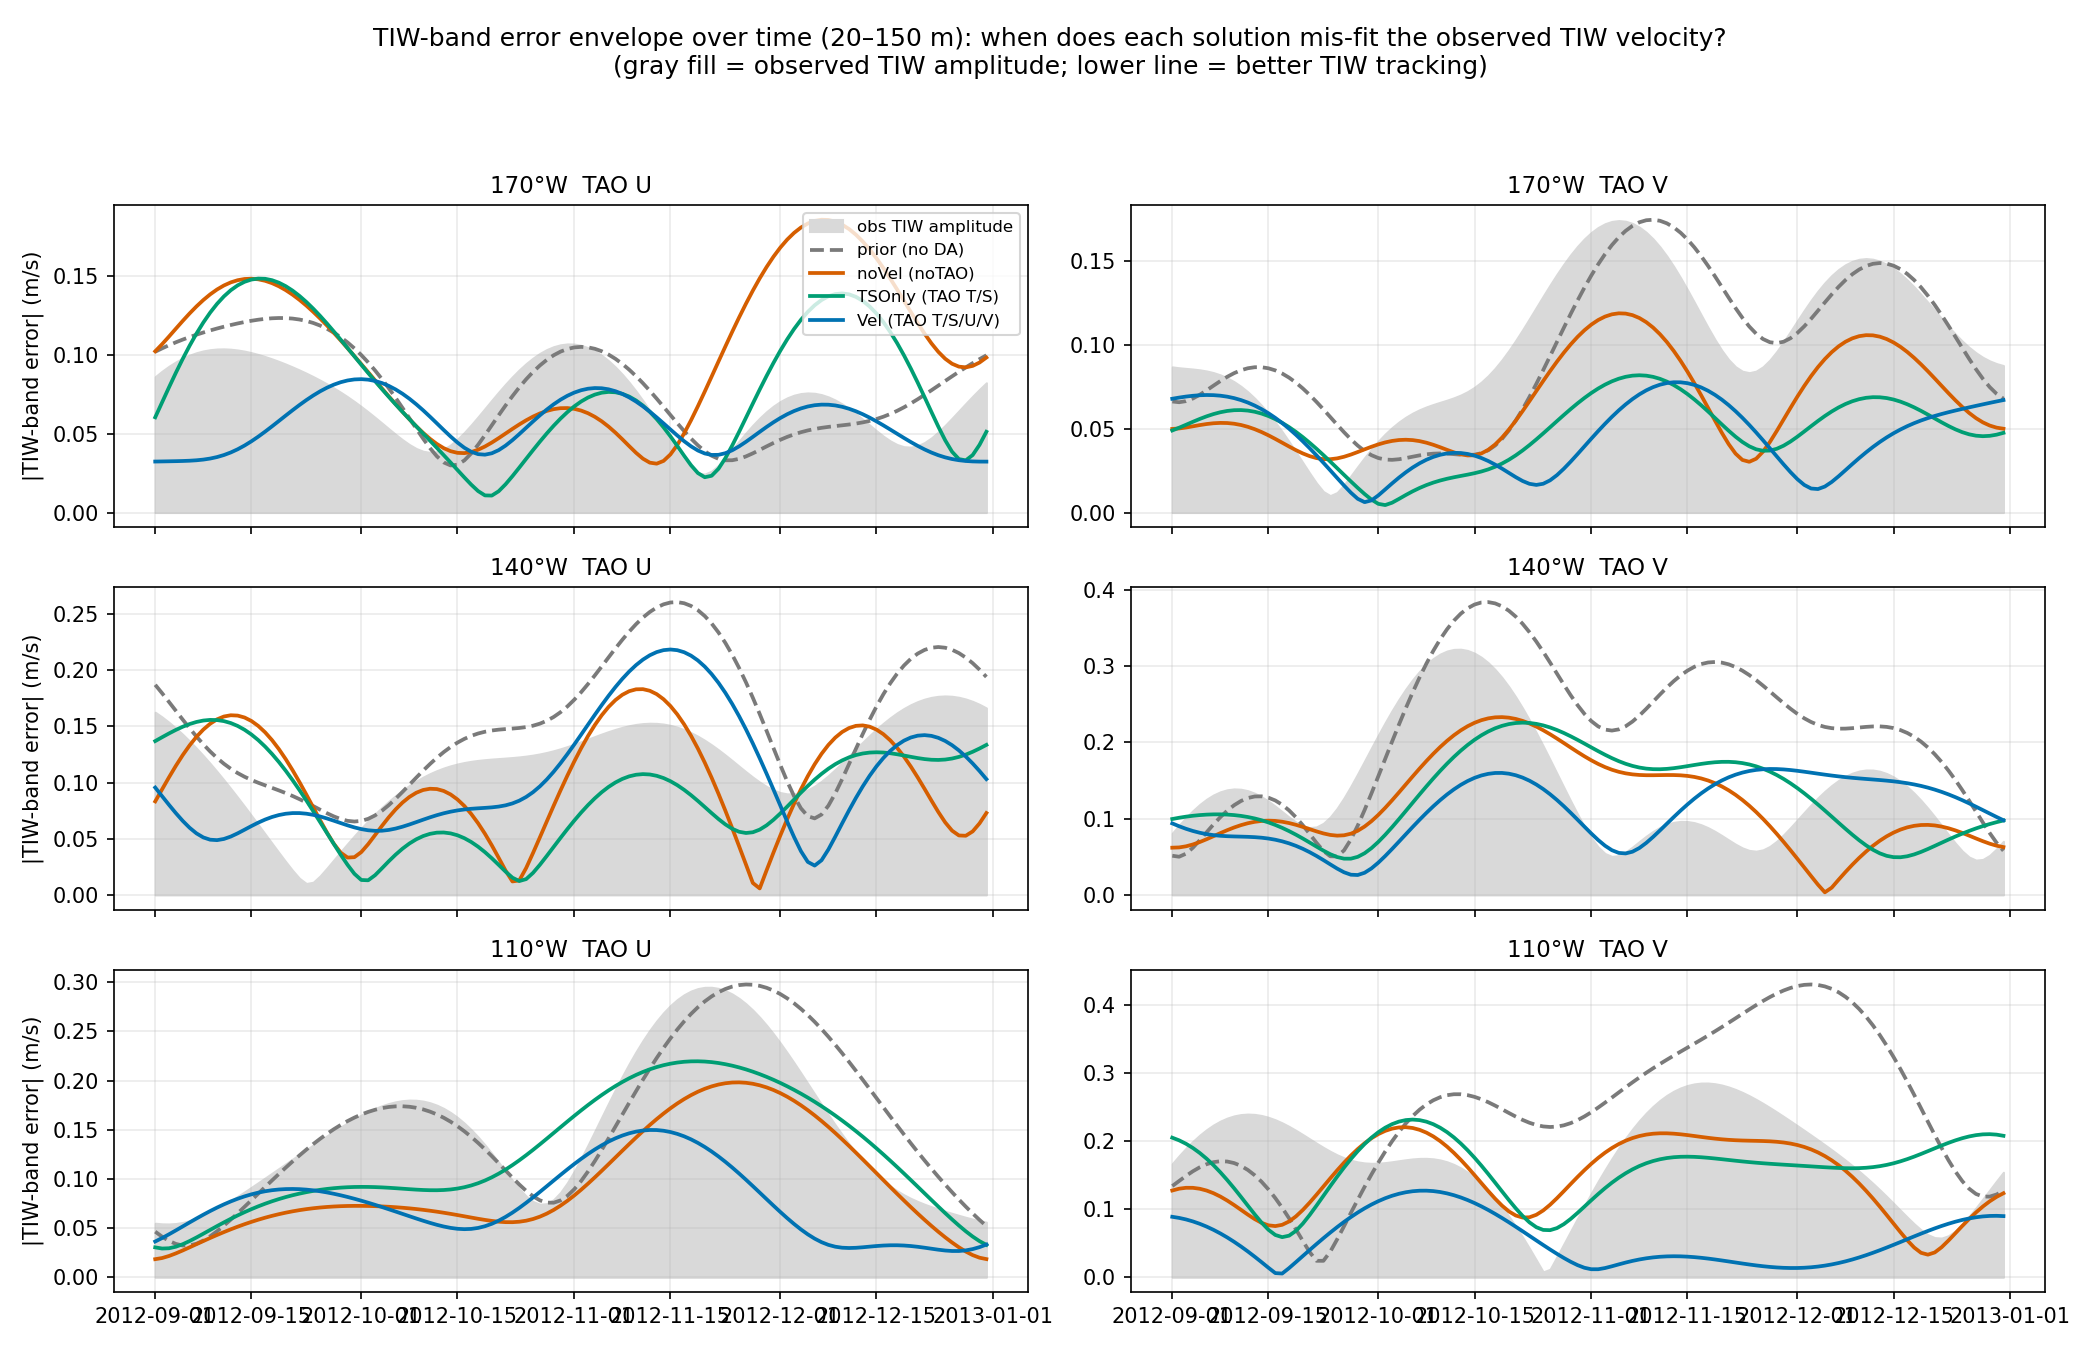
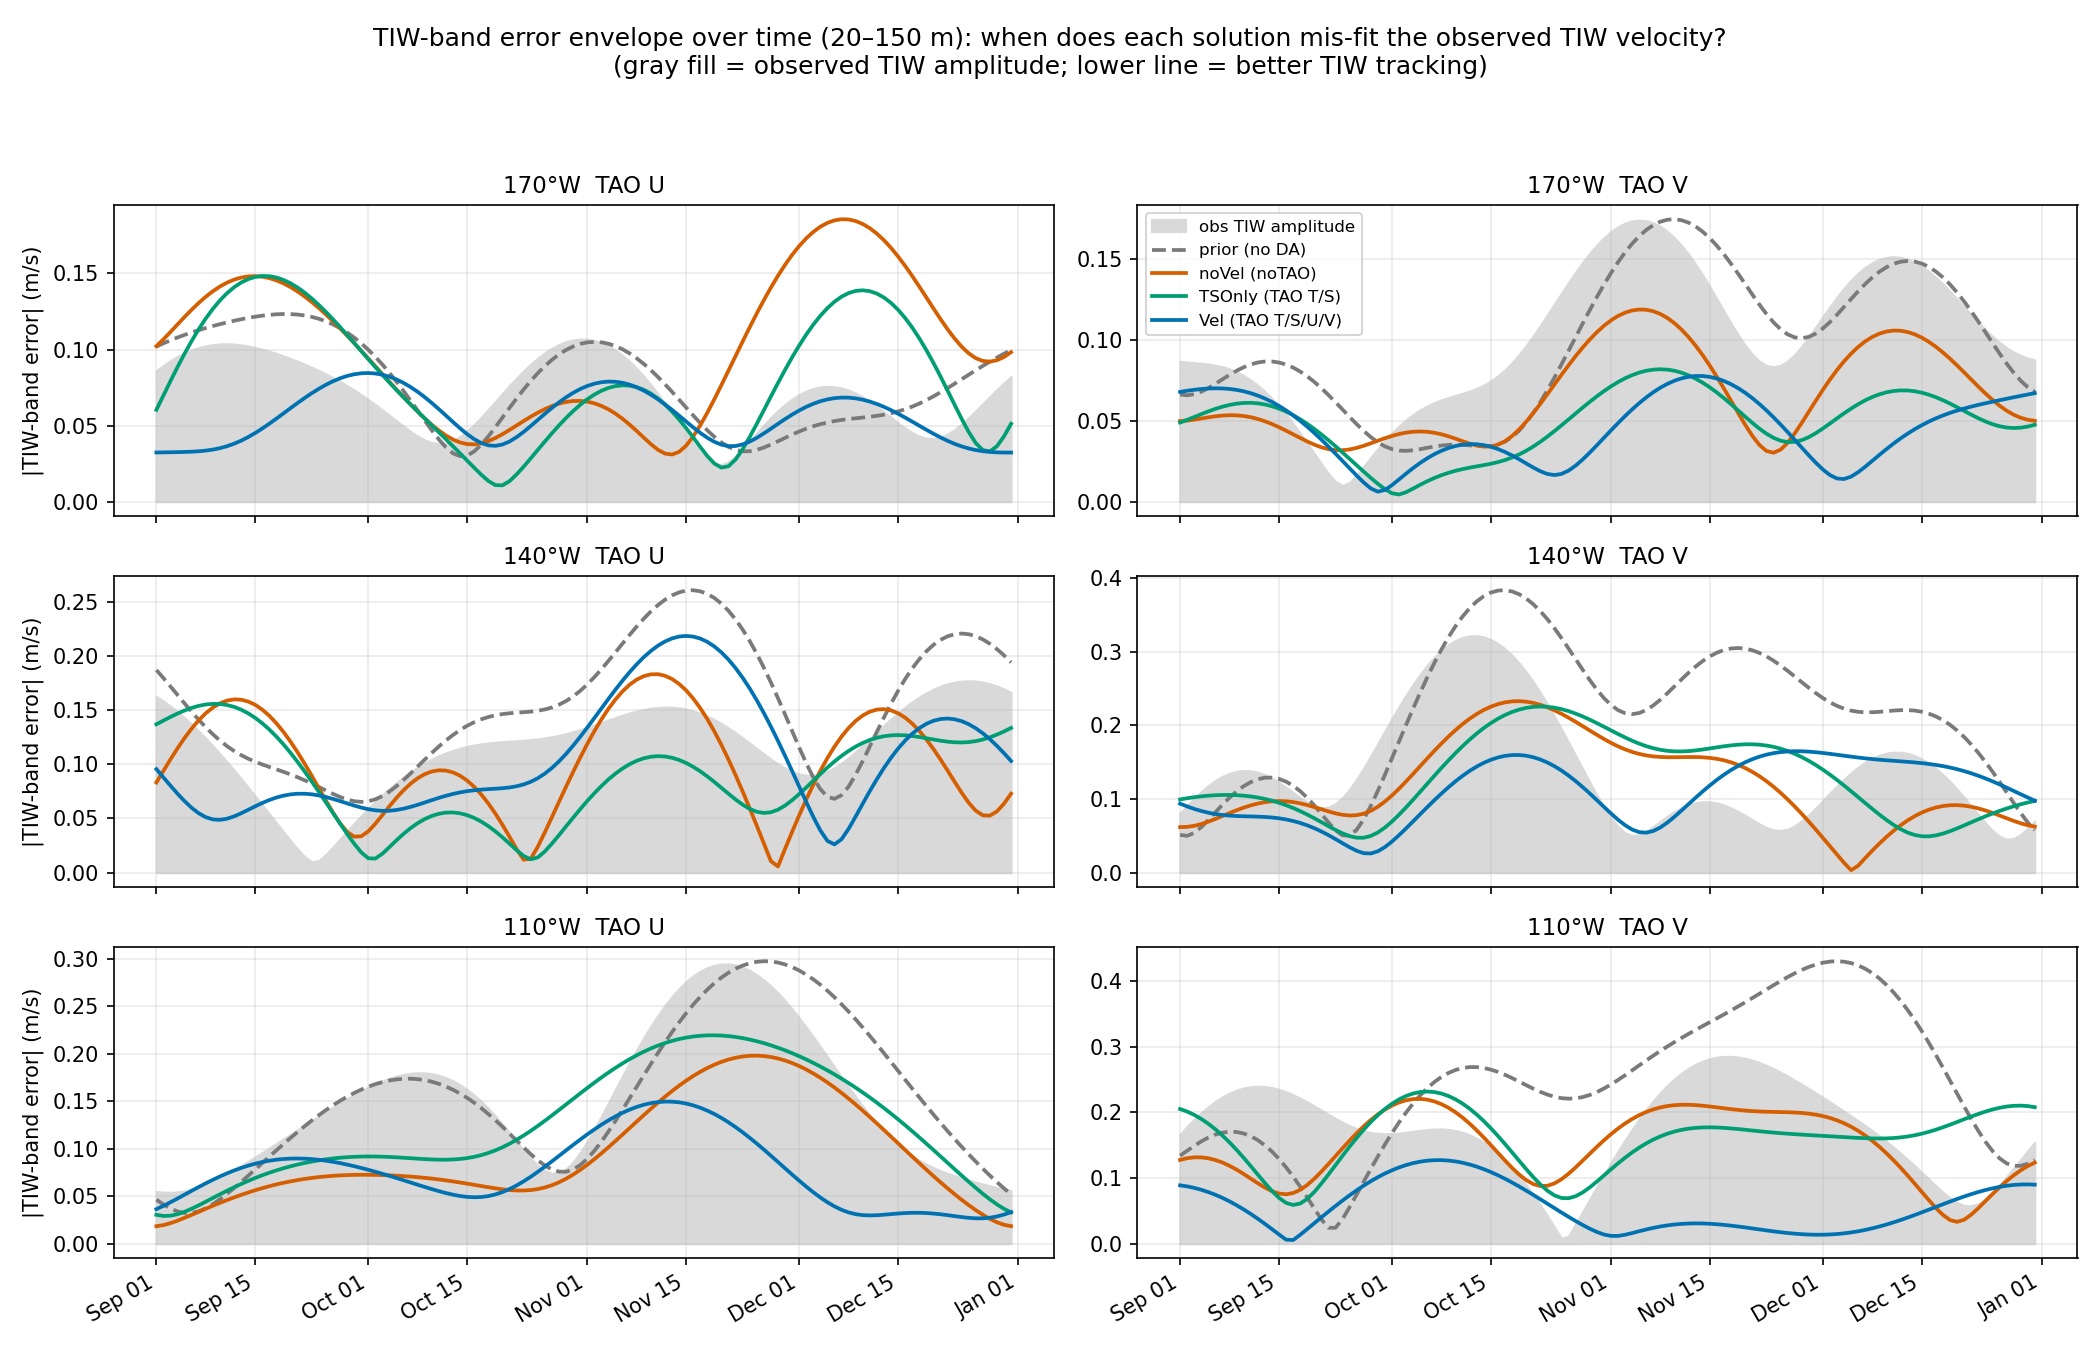
Refine summary figures: cleaner titles, wide-aspect maps, TIW phase speeds
- skill_maps_sst_by_obs: drop stippling + cold-tongue lines, fix colorbar
  (constrained_layout), widen to wide aspect, explicit minus-notation titles
  RMSE(a) - RMSE(b)
- euc_section_by_obs: remove dotted mooring lines, widen, trim title
- tiw_hovmoller_sst: add model-minus-obs error row (obs cell blank)
- velocity_error_envelope: move legend to 170W TAO V panel, rotate date ticks
- velocity_filtered_timeseries: rotate/shorten date tick labels
- vhov50_mooring_overlay: drop mooring agreement overlay, widen colorbar to
  +/-0.5 m/s, trace the two dominant westward TIW events with phase-speed labels
- remove stale SSH-included skill_maps_by_obs_type.png

diff --git a/summary_figs.py b/summary_figs.py
@@ -12,9 +12,10 @@ import pandas as pd
 import xarray as xr
 import matplotlib.pyplot as plt
 import matplotlib.dates as mdates
+import matplotlib.patheffects as pe
 from matplotlib.collections import LineCollection
 from matplotlib.lines import Line2D
-from scipy.signal import hilbert
+from scipy.signal import hilbert, find_peaks
 import tiw
 import anova
 
@@ -97,30 +98,23 @@ def fig_skill_maps():
         da = da.sel(YC=slice(*REGION['lat']), XC=slice(*REGION['lon']))
         return da.coarsen(YC=3, XC=3, boundary='trim').mean()
 
-    COLS = [('noVel', 'Vel', 'All TAO obs\n(noVel→Vel)'),
-            ('noVel', 'TSOnly', 'via TAO T/S\n(noVel→TSOnly)'),
-            ('TSOnly', 'Vel', 'via velocity obs\n(TSOnly→Vel)')]
-    ms = crop_coarsen(mean_sst)
-    fig, axs = plt.subplots(1, 3, figsize=(18, 4.6), sharex=True, sharey=True)
+    COLS = [('noVel', 'Vel', 'All TAO obs\nRMSE(noVel) − RMSE(Vel)'),
+            ('noVel', 'TSOnly', 'via TAO T/S\nRMSE(noVel) − RMSE(TSOnly)'),
+            ('TSOnly', 'Vel', 'via velocity obs\nRMSE(TSOnly) − RMSE(Vel)')]
+    fig, axs = plt.subplots(1, 3, figsize=(22, 3.6), sharex=True, sharey=True,
+                            constrained_layout=True)
     for ax, (a, b, title) in zip(axs, COLS):
         red = crop_coarsen(rmse[a] - rmse[b])
         pc = ax.pcolormesh(red.XC, red.YC, red.values, cmap='RdBu_r',
                            vmin=-0.4, vmax=0.4, shading='auto')
-        ys, xs = np.where(red.values > 0.08)
-        ax.plot(red.XC.values[xs], red.YC.values[ys], '.', color='k', ms=1.1, alpha=0.3)
-        ax.contour(ms.XC, ms.YC, ms.values, levels=[23, 25], colors='0.3',
-                   linewidths=1.0, linestyles='--')
-        for lon0 in TAO_LONS:
-            ax.axvline(lon0, color='0.5', lw=0.5, alpha=0.4)
         ax.plot([m[0] for m in TAO_EQ], [m[1] for m in TAO_EQ], 'kv', ms=8,
                 markerfacecolor='yellow', markeredgewidth=0.9)
         ax.set_title(title, fontsize=12); ax.set_xlabel('lon (°E)')
     axs[0].set_ylabel('lat (°N)')
-    fig.colorbar(pc, ax=axs, shrink=0.85, pad=0.01, label='SST RMSE reduction (°C)')
-    fig.suptitle('Where TAO reduces SST error, split by obs type  (red = error reduced; '
-                 '▼ eq. moorings, dashed = array lons, gray = 23/25 °C front; stipple > 0.08 °C)',
-                 fontsize=12)
-    fig.savefig(f'{OUT}/skill_maps_sst_by_obs.png', dpi=150, bbox_inches='tight'); plt.close(fig)
+    fig.colorbar(pc, ax=axs, shrink=0.85, label='SST RMSE difference (°C)')
+    fig.suptitle('Where TAO reduces SST error, split by obs type   '
+                 '(red = positive difference = RMSE reduced; ▼ = equatorial TAO moorings)', fontsize=13)
+    fig.savefig(f'{OUT}/skill_maps_sst_by_obs.png', dpi=150); plt.close(fig)
     print('wrote skill_maps_sst_by_obs.png')
 
 
@@ -142,20 +136,26 @@ def fig_tiw_hovmoller():
     panels = [('obs', oh, 'mw_fusion obs')] + [
         (r, _sst_hov(xr.open_dataarray(f'{CACHE}/grid_{r}_sst.nc').values, yc, xc), lab)
         for r, lab in [('noVel', 'noVel'), ('TSOnly', 'TSOnly'), ('Vel', 'Vel')]]
-    fig, axs = plt.subplots(1, 4, figsize=(16, 7), sharey=True)
-    for ax, (r, h, lab) in zip(axs, panels):
-        pc = ax.pcolormesh(h.XC, days, h.values, cmap='RdBu_r', vmin=-1.2, vmax=1.2,
-                           shading='auto')
-        if r != 'obs':                 # overlay obs TIW crests as contours
-            ax.contour(oh.XC, days, oh.values, levels=[-0.6, 0.6], colors='k',
-                       linewidths=0.6, alpha=0.7)
-        ax.set_title(lab, fontsize=12); ax.set_xlabel('lon (°E)')
-        ax.invert_yaxis()
-    axs[0].set_ylabel('time (2012)')
-    fig.colorbar(pc, ax=axs, shrink=0.85, pad=0.01, label='SST anomaly (°C), 2–6°N mean')
-    fig.suptitle('SST TIW Hovmöller (2–6°N): when & where the TIWs appear; black contours = obs crests\n'
-                 '(do the model crests line up with obs in longitude and time?)', fontsize=12)
-    fig.savefig(f'{OUT}/tiw_hovmoller_sst.png', dpi=150, bbox_inches='tight'); plt.close(fig)
+    fig, axs = plt.subplots(2, 4, figsize=(16, 12), sharex=True, sharey=True,
+                            constrained_layout=True)
+    for j, (r, h, lab) in enumerate(panels):
+        pa = axs[0, j].pcolormesh(h.XC, days, h.values, cmap='RdBu_r', vmin=-1.2, vmax=1.2,
+                                  shading='auto')
+        axs[0, j].set_title(lab, fontsize=12)
+        if r == 'obs':                 # row 2, col 1 is blank (obs has no error vs itself)
+            axs[1, j].axis('off')
+        else:
+            pe = axs[1, j].pcolormesh(h.XC, days, (h - oh).values, cmap='PuOr_r',
+                                      vmin=-1.0, vmax=1.0, shading='auto')
+            axs[1, j].set_title(f'{lab} − obs', fontsize=12)
+            axs[1, j].set_xlabel('lon (°E)')
+    axs[0, 0].invert_yaxis()
+    axs[0, 0].set_ylabel('time (2012)'); axs[1, 0].set_ylabel('time (2012)')
+    fig.colorbar(pa, ax=axs[0, :], shrink=0.8, label='SST anomaly (°C)')
+    fig.colorbar(pe, ax=axs[1, 1:], shrink=0.8, label='SST error, model − obs (°C)')
+    fig.suptitle('SST TIW Hovmöller (2–6°N): anomaly (top) and model error (bottom). '
+                 'When & where do the model TIWs match the observed ones?', fontsize=13)
+    fig.savefig(f'{OUT}/tiw_hovmoller_sst.png', dpi=150); plt.close(fig)
     print('wrote tiw_hovmoller_sst.png')
 
 
@@ -167,7 +167,7 @@ def fig_euc_section():
     def cr(da):
         return da.sel(XG=slice(180, 280)).where(da.Z > -300, drop=True)
     vel, ts_imp, v_imp = cr(E['Vel']), cr(E['TSOnly'] - E['noVel']), cr(E['Vel'] - E['TSOnly'])
-    fig, axs = plt.subplots(1, 3, figsize=(18, 4.8), sharey=True)
+    fig, axs = plt.subplots(1, 3, figsize=(21, 4.2), sharey=True, constrained_layout=True)
     p0 = axs[0].pcolormesh(vel.XG, vel.Z, vel.values, cmap='RdBu_r', vmin=-1, vmax=1, shading='auto')
     axs[0].contour(vel.XG, vel.Z, vel.values, levels=[0.2, 0.5, 0.8], colors='k', linewidths=0.6)
     axs[0].set_title('Vel: mean zonal current (EUC)')
@@ -179,13 +179,11 @@ def fig_euc_section():
         ax.set_title(title)
         fig.colorbar(pc, ax=ax, shrink=0.9, label='ΔU (m/s)')
     for ax in axs:
-        for lon0, _ in MOORINGS:
-            ax.axvline(lon0, color='0.5', lw=0.6, ls=':')
         ax.set_xlabel('lon (°E)')
     axs[0].set_ylabel('depth (m)')
-    fig.suptitle('Equatorial undercurrent (time-mean U): how TAO reshapes it, via T/S vs via velocity obs '
-                 '(dotted = 170/140/110°W moorings)', fontsize=12)
-    fig.savefig(f'{OUT}/euc_section_by_obs.png', dpi=150, bbox_inches='tight'); plt.close(fig)
+    fig.suptitle('Equatorial undercurrent (time-mean U): how TAO reshapes it, via T/S vs via velocity obs',
+                 fontsize=13)
+    fig.savefig(f'{OUT}/euc_section_by_obs.png', dpi=150); plt.close(fig)
     print('wrote euc_section_by_obs.png')
 
 
@@ -274,6 +272,9 @@ def fig_filtered_timeseries():
             ax.set_title(f'TAO {var} @ 140°W, {bl}'); ax.grid(alpha=0.25)
             ax.set_ylabel(f'{var} (m/s)')
     axs[0, 0].legend(fontsize=8, ncol=2)
+    for ax in axs[-1, :]:
+        ax.xaxis.set_major_formatter(mdates.DateFormatter('%b %d'))
+        plt.setp(ax.get_xticklabels(), rotation=30, ha='right')
     fig.suptitle('Filtered TAO U/V at 140°W (20–150 m): which solution tracks obs in the TIW band vs at low freq',
                  fontsize=12)
     fig.tight_layout(rect=[0, 0, 1, 0.95])
@@ -297,16 +298,19 @@ def fig_error_envelope():
             # reference: obs TIW amplitude envelope (how big the real TIW signal is)
             vo, _ = _mooring_series('Vel', var, mlon)
             ax.fill_between(tiw.DAYS, 0, _tiw_envelope(vo), color='0.85',
-                            label='obs TIW amplitude' if i == 0 and j == 0 else None, zorder=0)
+                            label='obs TIW amplitude' if i == 0 and j == 1 else None, zorder=0)
             for run, color, lab in SOLUTIONS:
                 vo2, vm = _mooring_series(run, var, mlon)
                 ax.plot(tiw.DAYS, _tiw_envelope(vm - vo2), color=color, lw=1.8,
                         ls='--' if run == 'prior' else '-',
-                        label=lab if i == 0 and j == 0 else None)
+                        label=lab if i == 0 and j == 1 else None)
             ax.grid(alpha=0.25); ax.set_title(f'{mname}  TAO {var}', fontsize=11)
             if j == 0:
                 ax.set_ylabel('|TIW-band error| (m/s)')
-    axs[0, 0].legend(fontsize=8, loc='upper right')
+    axs[0, 1].legend(fontsize=8, loc='upper left')
+    for ax in axs[-1, :]:
+        ax.xaxis.set_major_formatter(mdates.DateFormatter('%b %d'))
+        plt.setp(ax.get_xticklabels(), rotation=30, ha='right')
     fig.suptitle('TIW-band error envelope over time (20–150 m): when does each solution '
                  'mis-fit the observed TIW velocity?\n(gray fill = observed TIW amplitude; '
                  'lower line = better TIW tracking)', fontsize=12)
@@ -333,62 +337,73 @@ def _vhov50(run):
     return v
 
 
-# agreement colors: hot pink where the model matches the observed V sign, black where it
-# doesn't. A thin white halo (below) keeps both legible over red, blue AND white shading.
-AGREE, DISAGREE = '#ff1493', '#000000'
+DEG_M = 111320.0                 # m per degree longitude at the equator
 
 
-def _agree_column(ax, lon0, obs, mod, ydates, lw):
-    """Vertical line at lon0, colored green where sign(mod)==sign(obs), magenta otherwise."""
-    from matplotlib.colors import ListedColormap
-    y = mdates.date2num(ydates)
-    x = np.full_like(y, lon0, dtype=float)
-    pts = np.array([x, y]).T.reshape(-1, 1, 2)
-    segs = np.concatenate([pts[:-1], pts[1:]], axis=1)
-    agree = (np.sign(obs) == np.sign(mod)).astype(float)
-    import matplotlib.patheffects as pe
-    lc = LineCollection(segs, cmap=ListedColormap([DISAGREE, AGREE]),
-                        norm=plt.Normalize(0, 1), zorder=6)
-    lc.set_array(agree[:-1]); lc.set_linewidth(lw); lc.set_capstyle('butt')
-    lc.set_path_effects([pe.Stroke(linewidth=lw + 1.8, foreground='white'), pe.Normal()])
-    ax.add_collection(lc)
+def _phase_speed(a, dlon):
+    """Dominant westward TIW phase speed in a (time, lon) box, via the 2D-FFT peak in the
+    TIW period/wavelength band. Returns (c_m_per_s<0 west, slope deg/day)."""
+    a = a - a.mean()
+    nt, nx = a.shape
+    P = np.abs(np.fft.fft2(a)) ** 2
+    f = np.fft.fftfreq(nt, 1.0)              # cycles/day
+    k = np.fft.fftfreq(nx, dlon)             # cycles/deg
+    F, K = np.meshgrid(f, k, indexing='ij')
+    with np.errstate(divide='ignore'):
+        per = np.where(F != 0, 1 / np.abs(F), np.inf)       # days
+        wav = np.where(K != 0, 1 / np.abs(K), np.inf)       # deg
+    # westward: phase fronts x = -(f/k) t move west => f,k same sign; take the f>0,k>0 rep.
+    mask = (F > 0) & (K > 0) & (per >= 12) & (per <= 45) & (wav >= 4) & (wav <= 25)
+    if not mask.any():
+        return np.nan, np.nan
+    i = np.argmax(np.where(mask, P, -np.inf))
+    f0, k0 = F.flat[i], K.flat[i]
+    slope = -f0 / k0                          # deg/day (negative = westward)
+    return slope * DEG_M / 86400.0, slope
 
 
 def fig_vhov_mooring():
-    """V@50m Hovmoller (noVel/TSOnly/Vel); at each mooring lon a thin column colored by
-    whether the modeled V agrees in SIGN with the observed mooring V (TIW phase correct?)."""
-    VMAX = 0.3
+    """V@50m equatorial Hovmoller (noVel/TSOnly/Vel) with lines tracing the dominant westward
+    TIW events, annotated with their phase speed — shows how timing & propagation adjust."""
+    VMAX = 0.5
     hov = {r: _vhov50(r) for r in ('noVel', 'TSOnly', 'Vel')}
-    obsw = {}
-    for mlon, _ in MOORINGS:
-        vo, _ = _mooring_series('Vel', 'V', mlon, zband=(-60, -40))
-        vo = pd.Series(vo).interpolate(limit_direction='both').values
-        obsw[mlon] = vo - np.nanmean(vo)
+    ha = {r: (hov[r] - hov[r].mean('time')) for r in hov}
+    lon = ha['Vel'].XC.values
+    dlon = float(np.mean(np.diff(lon)))
+    # detect the 2 dominant TIW events from the Vel longitude-RMS amplitude envelope
+    amp = np.sqrt((ha['Vel'].values ** 2).mean(axis=1))
+    amp_s = pd.Series(amp).rolling(7, center=True, min_periods=1).mean().values
+    pk, _ = find_peaks(amp_s, distance=20)
+    pk = np.sort(pk[np.argsort(amp_s[pk])[::-1][:2]])
+    events = [(max(0, p - 18), min(len(tiw.DAYS), p + 18)) for p in pk]
 
-    fig, axs = plt.subplots(1, 3, figsize=(16, 8), sharey=True)
+    fig, axs = plt.subplots(1, 3, figsize=(16, 8), sharey=True, constrained_layout=True)
     for ax, r in zip(axs, ('noVel', 'TSOnly', 'Vel')):
-        h = hov[r]; ha = h - h.mean('time')
-        pc = ax.pcolormesh(h.XC, tiw.DAYS, ha.values, cmap='RdBu_r',
+        pc = ax.pcolormesh(lon, tiw.DAYS, ha[r].values, cmap='RdBu_r',
                            vmin=-VMAX, vmax=VMAX, shading='auto')
-        for mlon, mname in MOORINGS:
-            mod = ha.sel(XC=mlon, method='nearest').values         # this run's V at the mooring
-            _agree_column(ax, mlon, obsw[mlon], mod, tiw.DAYS, lw=3.5)
-            ax.text(mlon, tiw.DAYS[-1], mname, fontsize=8, ha='center', va='top',
-                    bbox=dict(fc='white', alpha=0.8, ec='none', pad=0.6))
+        for (t0, t1) in events:
+            box = ha[r].isel(time=slice(t0, t1)).values
+            c_ms, slope = _phase_speed(box, dlon)
+            if not np.isfinite(slope):
+                continue
+            bi = np.unravel_index(np.argmax(np.abs(box)), box.shape)  # anchor on strongest crest
+            ta, la = t0 + bi[0], lon[bi[1]]
+            tt = np.array([t0, t1 - 1])
+            xx = la + slope * (tt - ta)
+            ax.plot(xx, [tiw.DAYS[t0], tiw.DAYS[t1 - 1]], 'k', lw=2.2, zorder=6,
+                    path_effects=[pe.Stroke(linewidth=4, foreground='white'), pe.Normal()])
+            tm = (t0 + t1) // 2
+            ax.annotate(f'{abs(c_ms):.2f} m/s', (la + slope * (tm - ta), tiw.DAYS[tm]),
+                        fontsize=10, fontweight='bold', ha='left', va='center',
+                        xytext=(6, 0), textcoords='offset points',
+                        bbox=dict(fc='white', alpha=0.85, ec='none', pad=1), zorder=7)
         ax.set_title(r, fontsize=13, fontweight='bold')
-        ax.set_xlabel('lon (°E)'); ax.set_xlim(*VHOV['lon']); ax.invert_yaxis()
+        ax.set_xlabel('lon (°E)'); ax.set_xlim(lon.min(), lon.max()); ax.invert_yaxis()
     axs[0].set_ylabel('time (2012)')
-    fig.colorbar(pc, ax=axs, shrink=0.8, pad=0.01, label='model V @ 50 m anomaly (m/s)')
-    leg = [Line2D([0], [0], color=AGREE, lw=5, label='model agrees with obs V sign'),
-           Line2D([0], [0], color=DISAGREE, lw=5, label='model disagrees (wrong TIW phase)')]
-    fig.legend(handles=leg, fontsize=10, loc='lower center', ncol=2,
-               bbox_to_anchor=(0.5, -0.02), framealpha=1)
-    fig.suptitle('Equatorial V at 50 m (±1°N): where each model agrees with the observed mooring V',
-                 fontsize=14)
-    fig.text(0.5, 0.925, 'columns at 170/140/110°W: pink = modeled V has the observed sign, '
-             'black = wrong sign. More pink west→east and noVel→Vel = better TIW phase.',
-             ha='center', fontsize=9, style='italic')
-    fig.savefig(f'{OUT}/vhov50_mooring_overlay.png', dpi=150, bbox_inches='tight'); plt.close(fig)
+    fig.colorbar(pc, ax=axs, shrink=0.85, label='V @ 50 m anomaly (m/s)')
+    fig.suptitle('Equatorial V at 50 m (±1°N): dominant westward TIW events and their phase speed '
+                 '(black lines; label = westward phase speed)', fontsize=13)
+    fig.savefig(f'{OUT}/vhov50_mooring_overlay.png', dpi=150); plt.close(fig)
     print('wrote vhov50_mooring_overlay.png')
 
 
